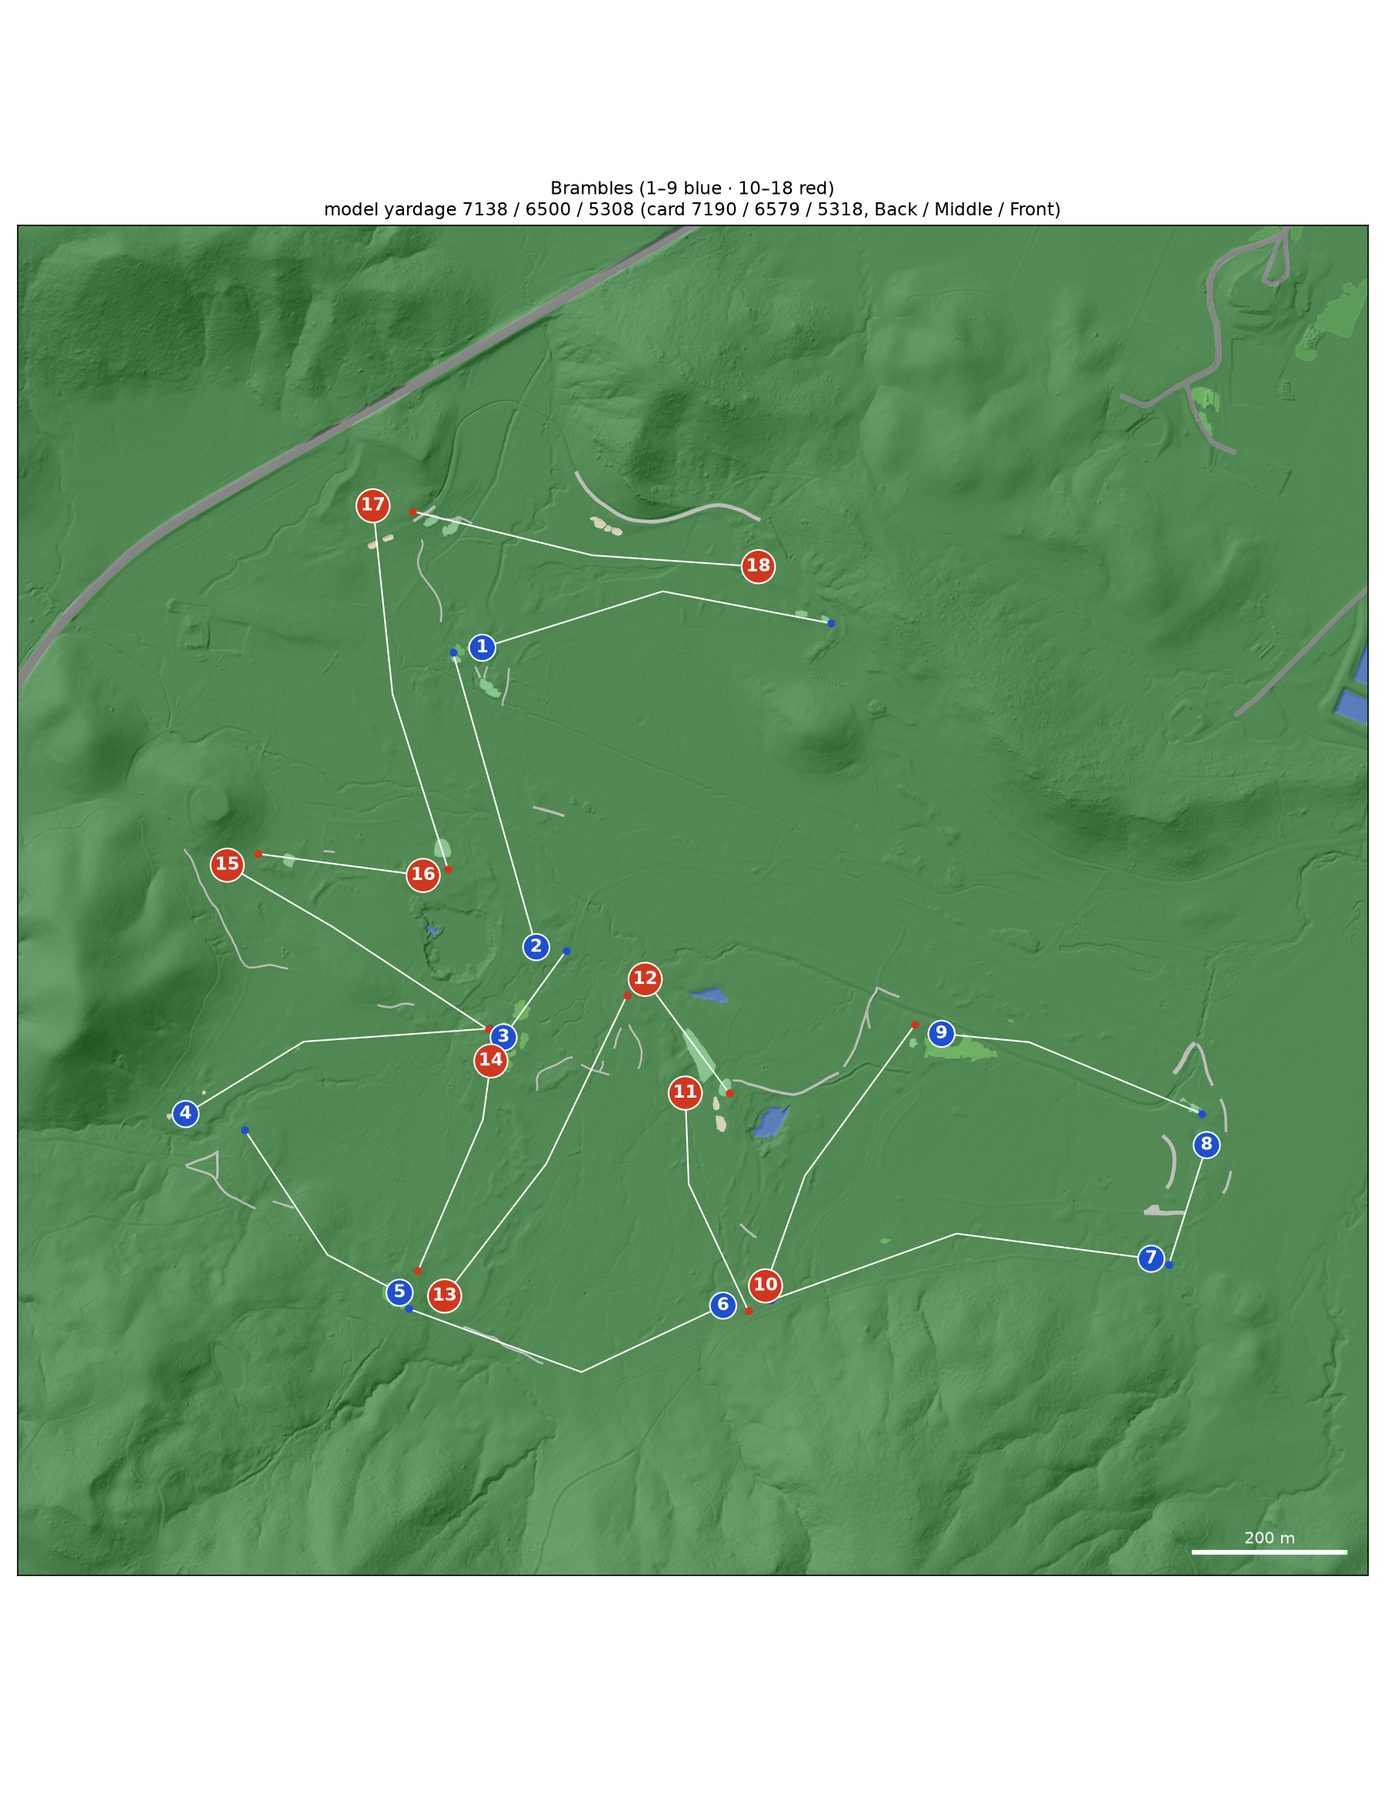
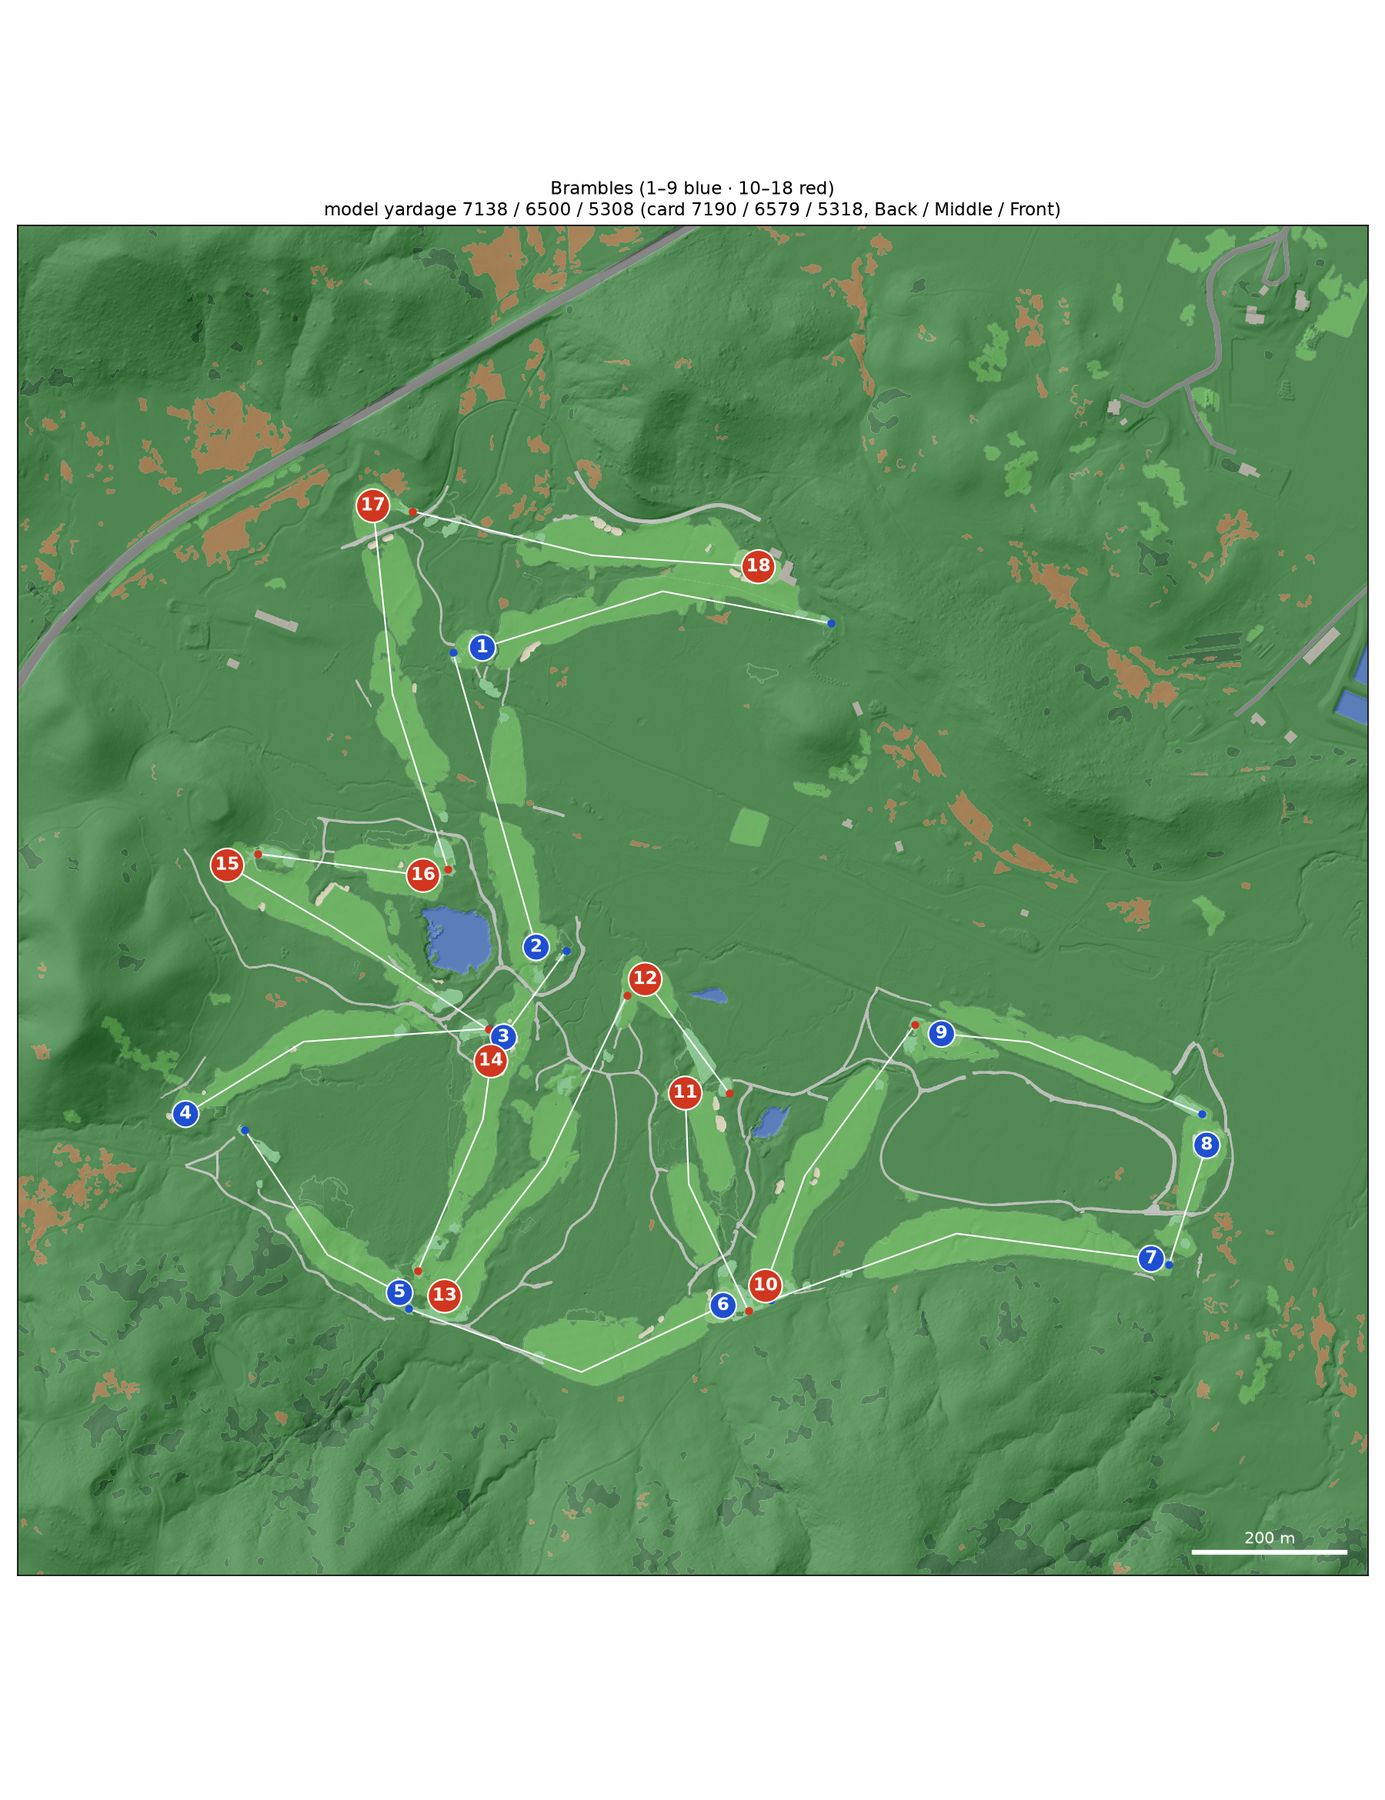
Course READMEs: course maps redrawn with their surfaces' holes; Westmount's hole table
The README course maps showed only rough, paths and trees (make_maps filled each polygon to its exterior).
Westmount's is from its clean build of 11affd6; Deer Ridge's and Brambles' are course_map() of this branch drawn from
their builds of main d52be39 (their surfaces and lines of play do not change here; Deer Ridge's dem_final changes only
at the weir on its north edge). Westmount's hole 10 lists 3 native areas, not 4 (a 52 m2 patch off the outline).

diff --git a/courses/westmount/README.md b/courses/westmount/README.md
@@ -68,7 +68,7 @@ green centre), with the card yards in brackets where they differ by more than 6 
 | 7 | 5 | 11 | 541 | 503 | 480 | 449 | 41 × 26 | -8 m | 4 bunker |
 | 8 | 4 | 17 | 305 | 275 | 260 | 245 | 27 × 24 | +2 m | 5 bunker |
 | 9 | 4 | 5 | 401 | 373 | 346 | 334 | 35 × 19 | +6 m | 2 bunker, 1 water |
-| 10 | 4 | 12 | 334 | 319 | 304 | 217 | 29 × 32 | -3 m | 2 bunker, 4 native_area |
+| 10 | 4 | 12 | 334 | 319 | 304 | 217 | 29 × 32 | -3 m | 2 bunker, 3 native_area |
 | 11 | 5 | 6 | 580 | 540 | 502 | 451 | 37 × 24 | +0 m | 2 bunker, 1 native_area |
 | 12 | 3 | 18 | 141 | 127 | 108 | 93 | 32 × 27 | -6 m | 3 bunker |
 | 13 | 5 | 8 | 554 | 520 | 503 | 439 | 35 × 28 | -6 m | 2 bunker |
